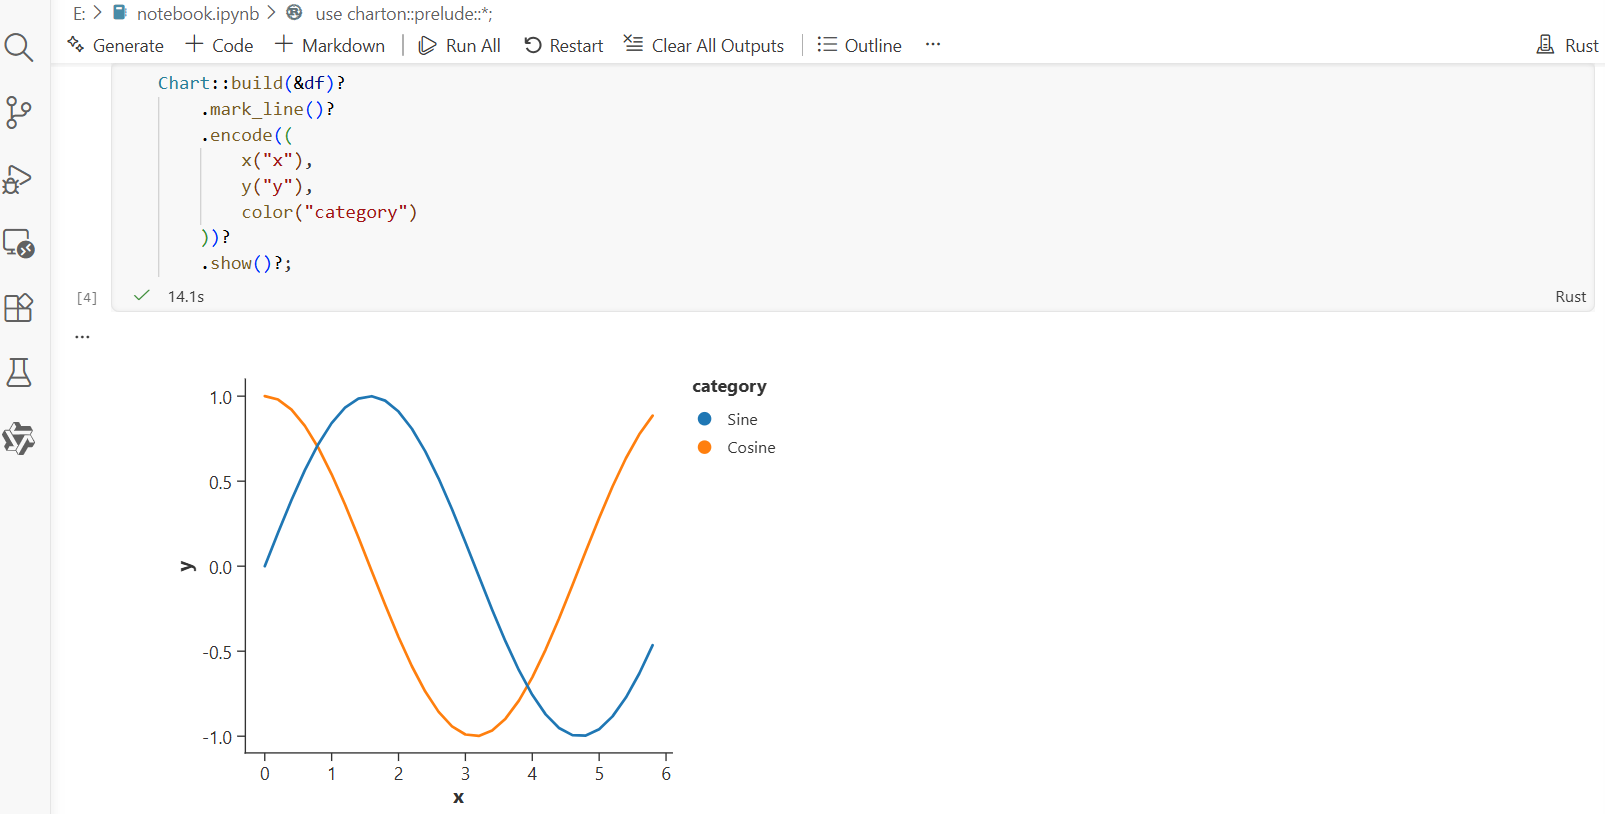
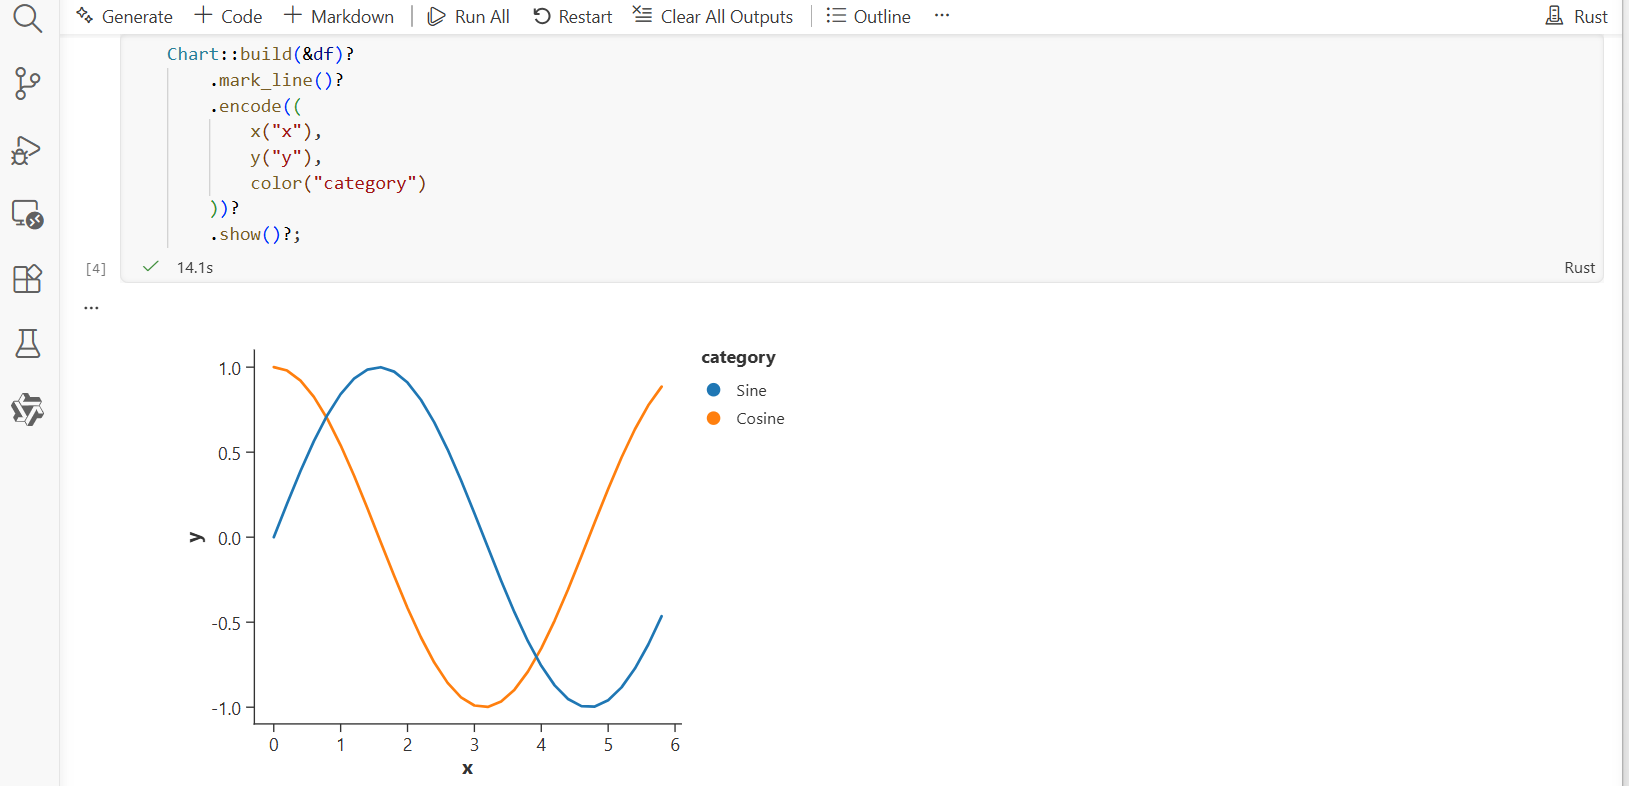
update readme

diff --git a/README.md b/README.md
@@ -100,7 +100,7 @@ Charton scales the Grammar of Graphics to heavy-duty production. By adopting the
 *This figure demonstrates semantic synchronization in Charton. Heterogeneous samples (point layer) are anchored to a global baseline (bar layer). By enforcing a single mathematical truth across all layers, Charton maintains absolute color consistency, ensuring samples are accurately contextualized within the historical background.*
 
 ## Publish Quality
-Designed for precision, Charton provides pixel-perfect control over complex marks. Whether it is a multi-layered ErrorBar for medical research or a high-density scatter plot for bioinformatics, Charton delivers the aesthetic rigor required by top-tier journals like Nature, Science, and Cell.
+Designed for precision, Charton provides pixel-perfect control over complex marks. Whether it is a multi-layered ErrorBar for medical research or a high-density scatter plot for bioinformatics, Charton delivers the aesthetic rigor required by top-tier journals like *Nature*, *Science*, and *Cell*.
 
 ## Performance Benchmark
 *Benchmarks are currently in progress.*